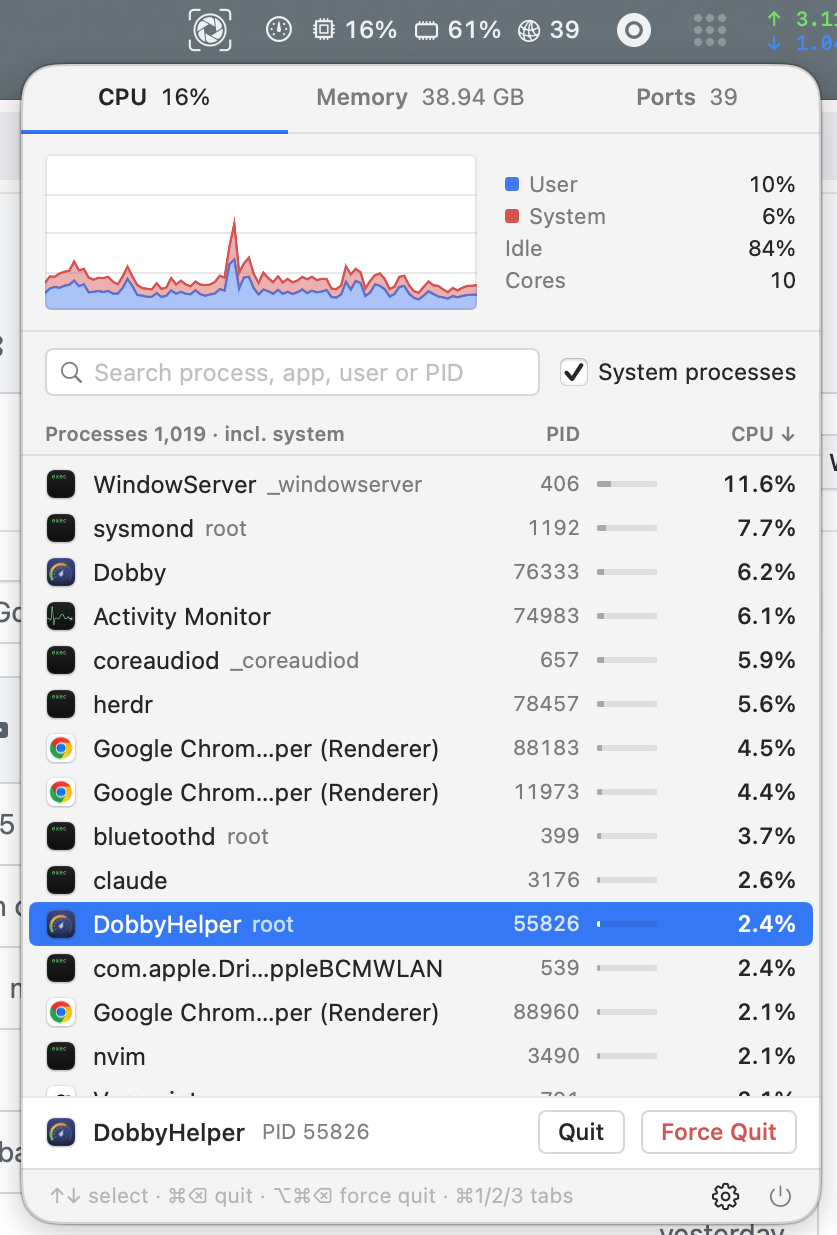
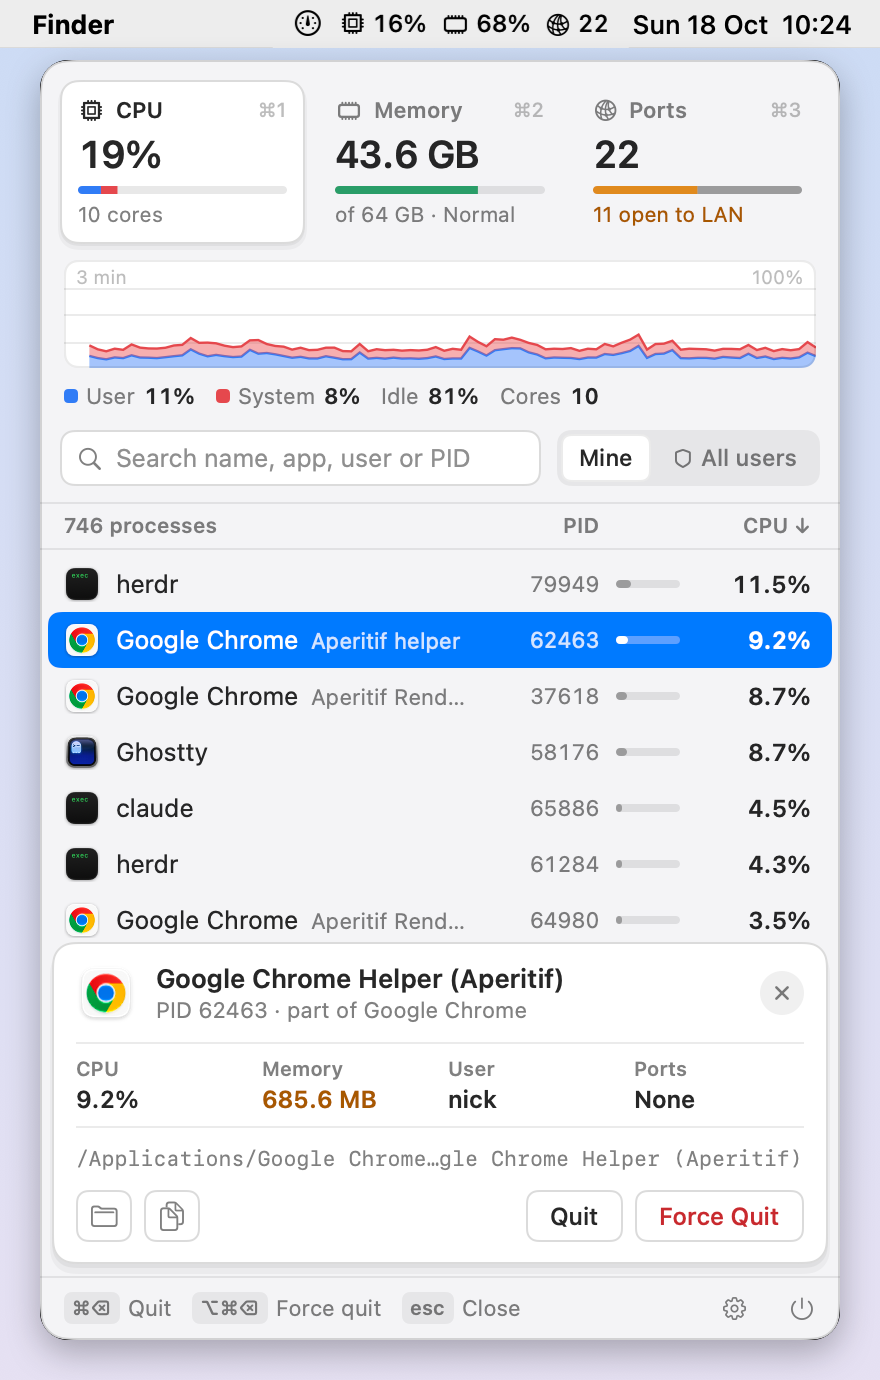
Update the README demo for the redesigned panel
The graph's time-span caption moves to the top-left, where it no longer
overlaps the usage line. DOBBY_SNAPSHOT_SELECT also accepts text in the
process name, so demo shots can pick a stable row.

diff --git a/Sources/Dobby/SnapshotRenderer.swift b/Sources/Dobby/SnapshotRenderer.swift
@@ -4,7 +4,7 @@ import SwiftUI
 
 /// Development aid: `DOBBY_SNAPSHOT=out.png Dobby` renders the panel to a PNG and exits.
 /// Optional: DOBBY_SNAPSHOT_TAB=memory|ports|all-users|settings|menubar|menubar-alert (menubar: the status item readout instead of
-/// the panel; menubar-alert: the same with high memory pressure and a new LAN port), DOBBY_SNAPSHOT_SELECT=<row index>, DOBBY_SNAPSHOT_THEME=system|light|dark,
+/// the panel; menubar-alert: the same with high memory pressure and a new LAN port), DOBBY_SNAPSHOT_SELECT=<row index or name>, DOBBY_SNAPSHOT_THEME=system|light|dark,
 /// DOBBY_SNAPSHOT_WAIT=<seconds before capture>.
 @MainActor
 enum SnapshotRenderer {
@@ -44,10 +44,14 @@ enum SnapshotRenderer {
         Task {
             // Longer waits let the history graphs fill in.
             try? await Task.sleep(for: .seconds(env["DOBBY_SNAPSHOT_WAIT"].flatMap(Double.init) ?? 2.6))
-            if let index = env["DOBBY_SNAPSHOT_SELECT"].flatMap(Int.init) {
+            if let select = env["DOBBY_SNAPSHOT_SELECT"] {
+                // A row index, or the first row whose name contains the text.
+                let index = Int(select) ?? (monitor.tab == .ports
+                    ? monitor.portRows.firstIndex { $0.name.localizedCaseInsensitiveContains(select) }
+                    : monitor.rows.firstIndex { $0.name.localizedCaseInsensitiveContains(select) }) ?? -1
                 if monitor.tab == .ports, monitor.portRows.indices.contains(index) {
                     monitor.portSelection = monitor.portRows[index].id
-                } else if monitor.rows.indices.contains(index) {
+                } else if monitor.tab != .ports, monitor.rows.indices.contains(index) {
                     monitor.selection = monitor.rows[index].pid
                 }
             }

diff --git a/Sources/Dobby/ContentView.swift b/Sources/Dobby/ContentView.swift
@@ -186,8 +186,9 @@ private struct GraphWithLegend: View {
         VStack(alignment: .leading, spacing: 7) {
             HistoryGraph(series: series, capacity: 90)
                 .frame(height: 54)
+                // Both captions sit along the top, where usage rarely reaches.
                 .overlay(alignment: .topTrailing) { caption(scale).padding(.top, 3).padding(.trailing, 6) }
-                .overlay(alignment: .bottomLeading) { caption(span).padding(.bottom, 3).padding(.leading, 6) }
+                .overlay(alignment: .topLeading) { caption(span).padding(.top, 3).padding(.leading, 6) }
             HStack(spacing: 10) {
                 ForEach(legend, id: \.label) { item in
                     HStack(spacing: 4) {

diff --git a/README.md b/README.md
@@ -4,7 +4,7 @@ Dobby is a free macOS menu bar process monitor — a lighter, clearer take on Ac
 
 ## Demo
 
-![Dobby CPU tab showing usage history and system processes](docs/images/demo.png)
+![Dobby panel on the CPU view with a process selected, under the menu bar readout](docs/images/demo.png)
 
 ## Features
 
@@ -66,7 +66,7 @@ Optional variables:
 | --- | --- |
 | `DOBBY_SNAPSHOT_TAB` | `memory`, `ports`, `all-users` (the All users explanation), `settings`, `menubar` (the menu bar readout), `menubar-alert` (the readout with high memory pressure and a new LAN port); default: CPU |
 | `DOBBY_SNAPSHOT_THEME` | `system`, `light`, `dark` |
-| `DOBBY_SNAPSHOT_SELECT` | row index to select |
+| `DOBBY_SNAPSHOT_SELECT` | row index, or text in the process name, to select |
 | `DOBBY_SNAPSHOT_WAIT` | seconds to wait before capturing (default `2.6`) |
 
 ## License
